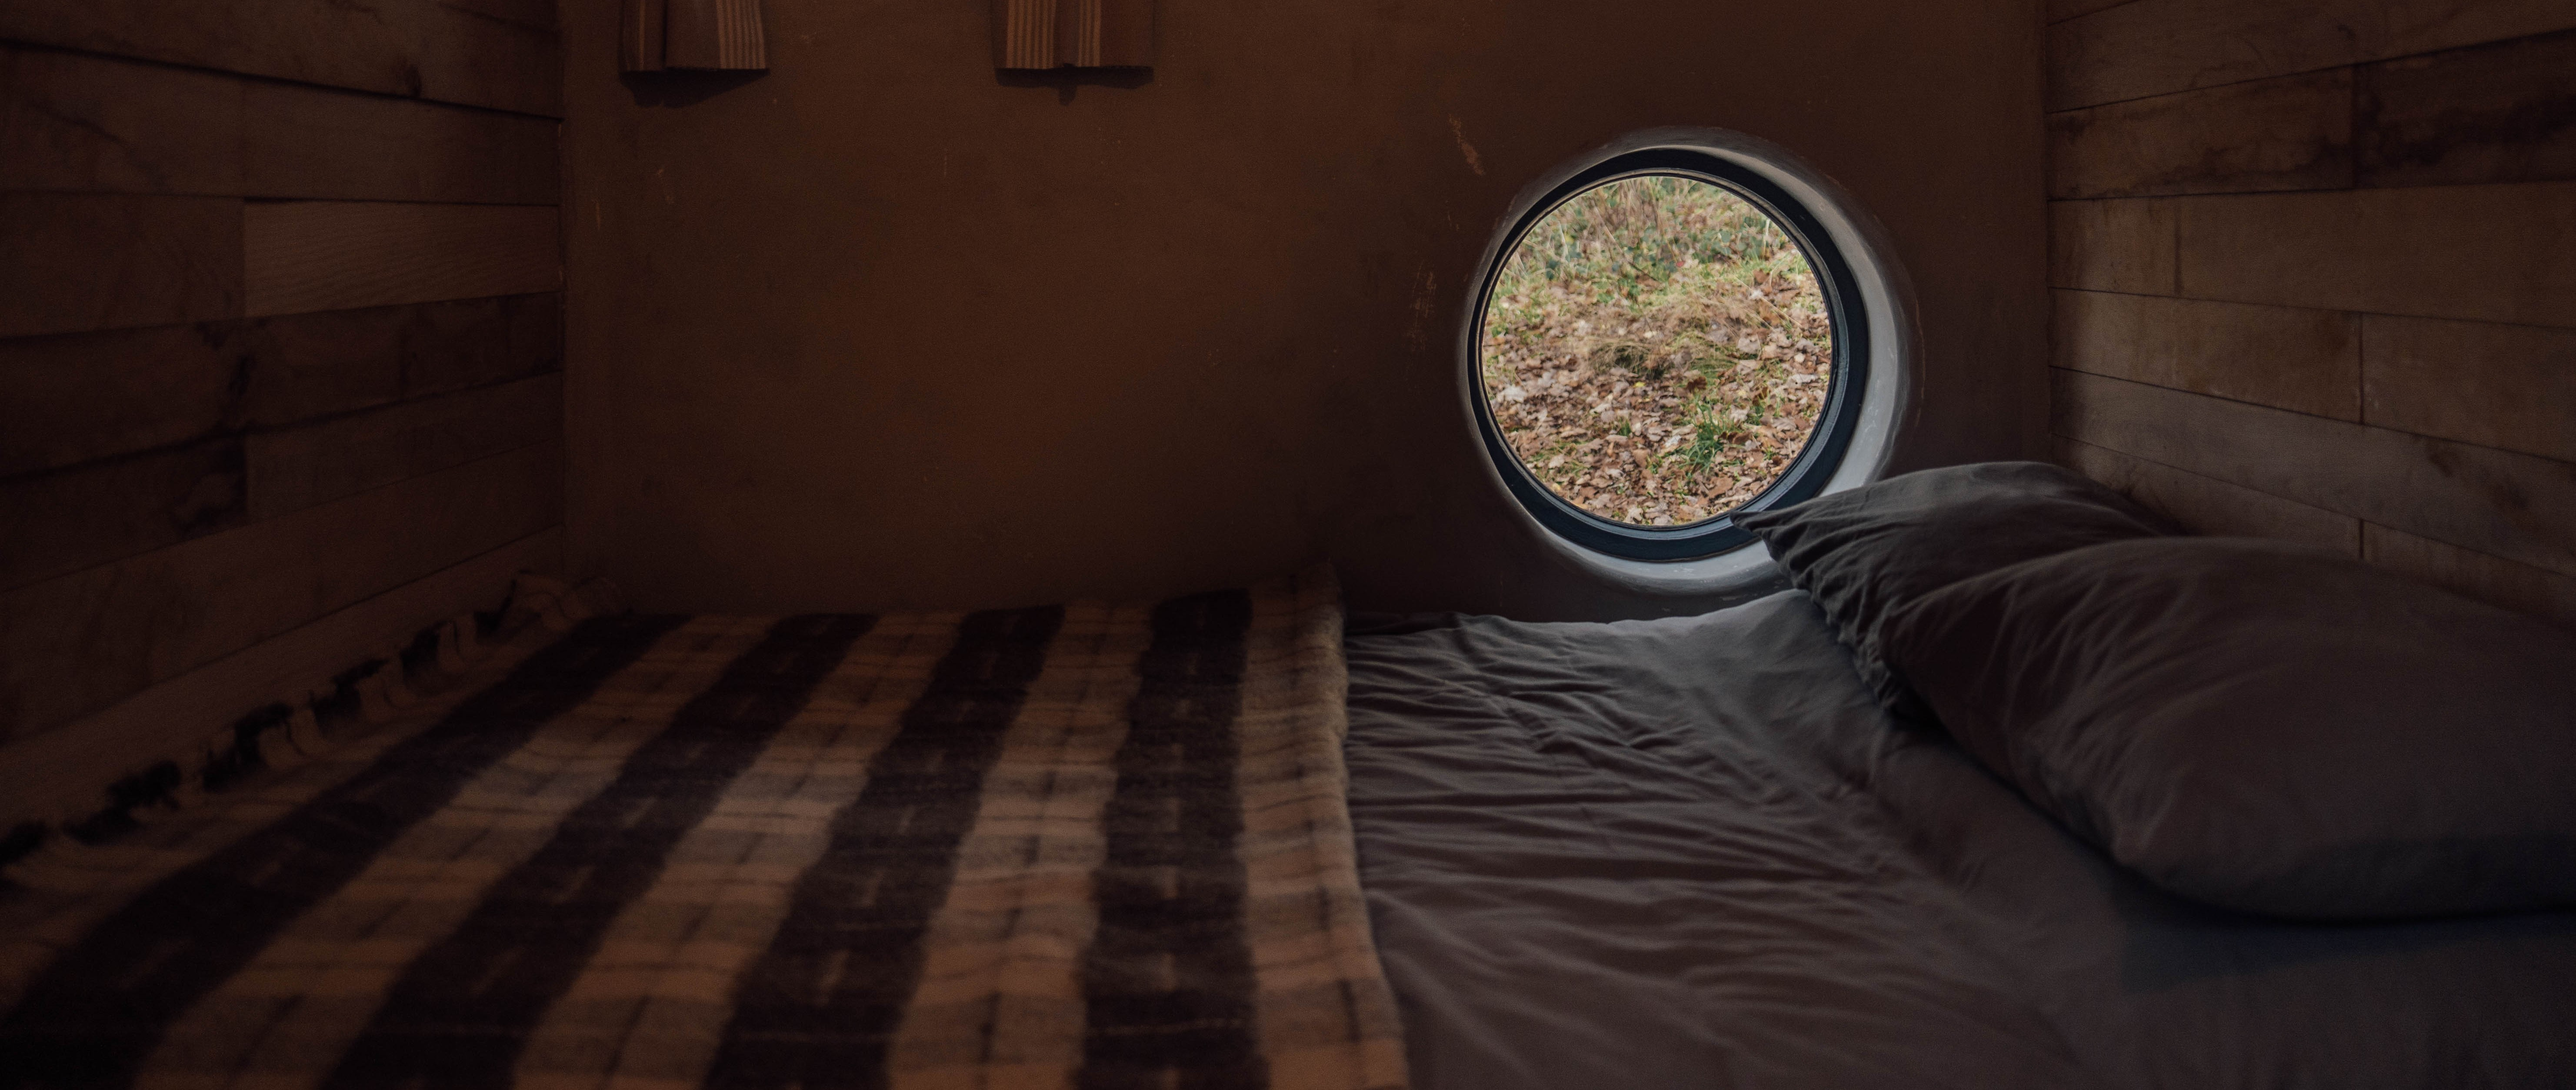
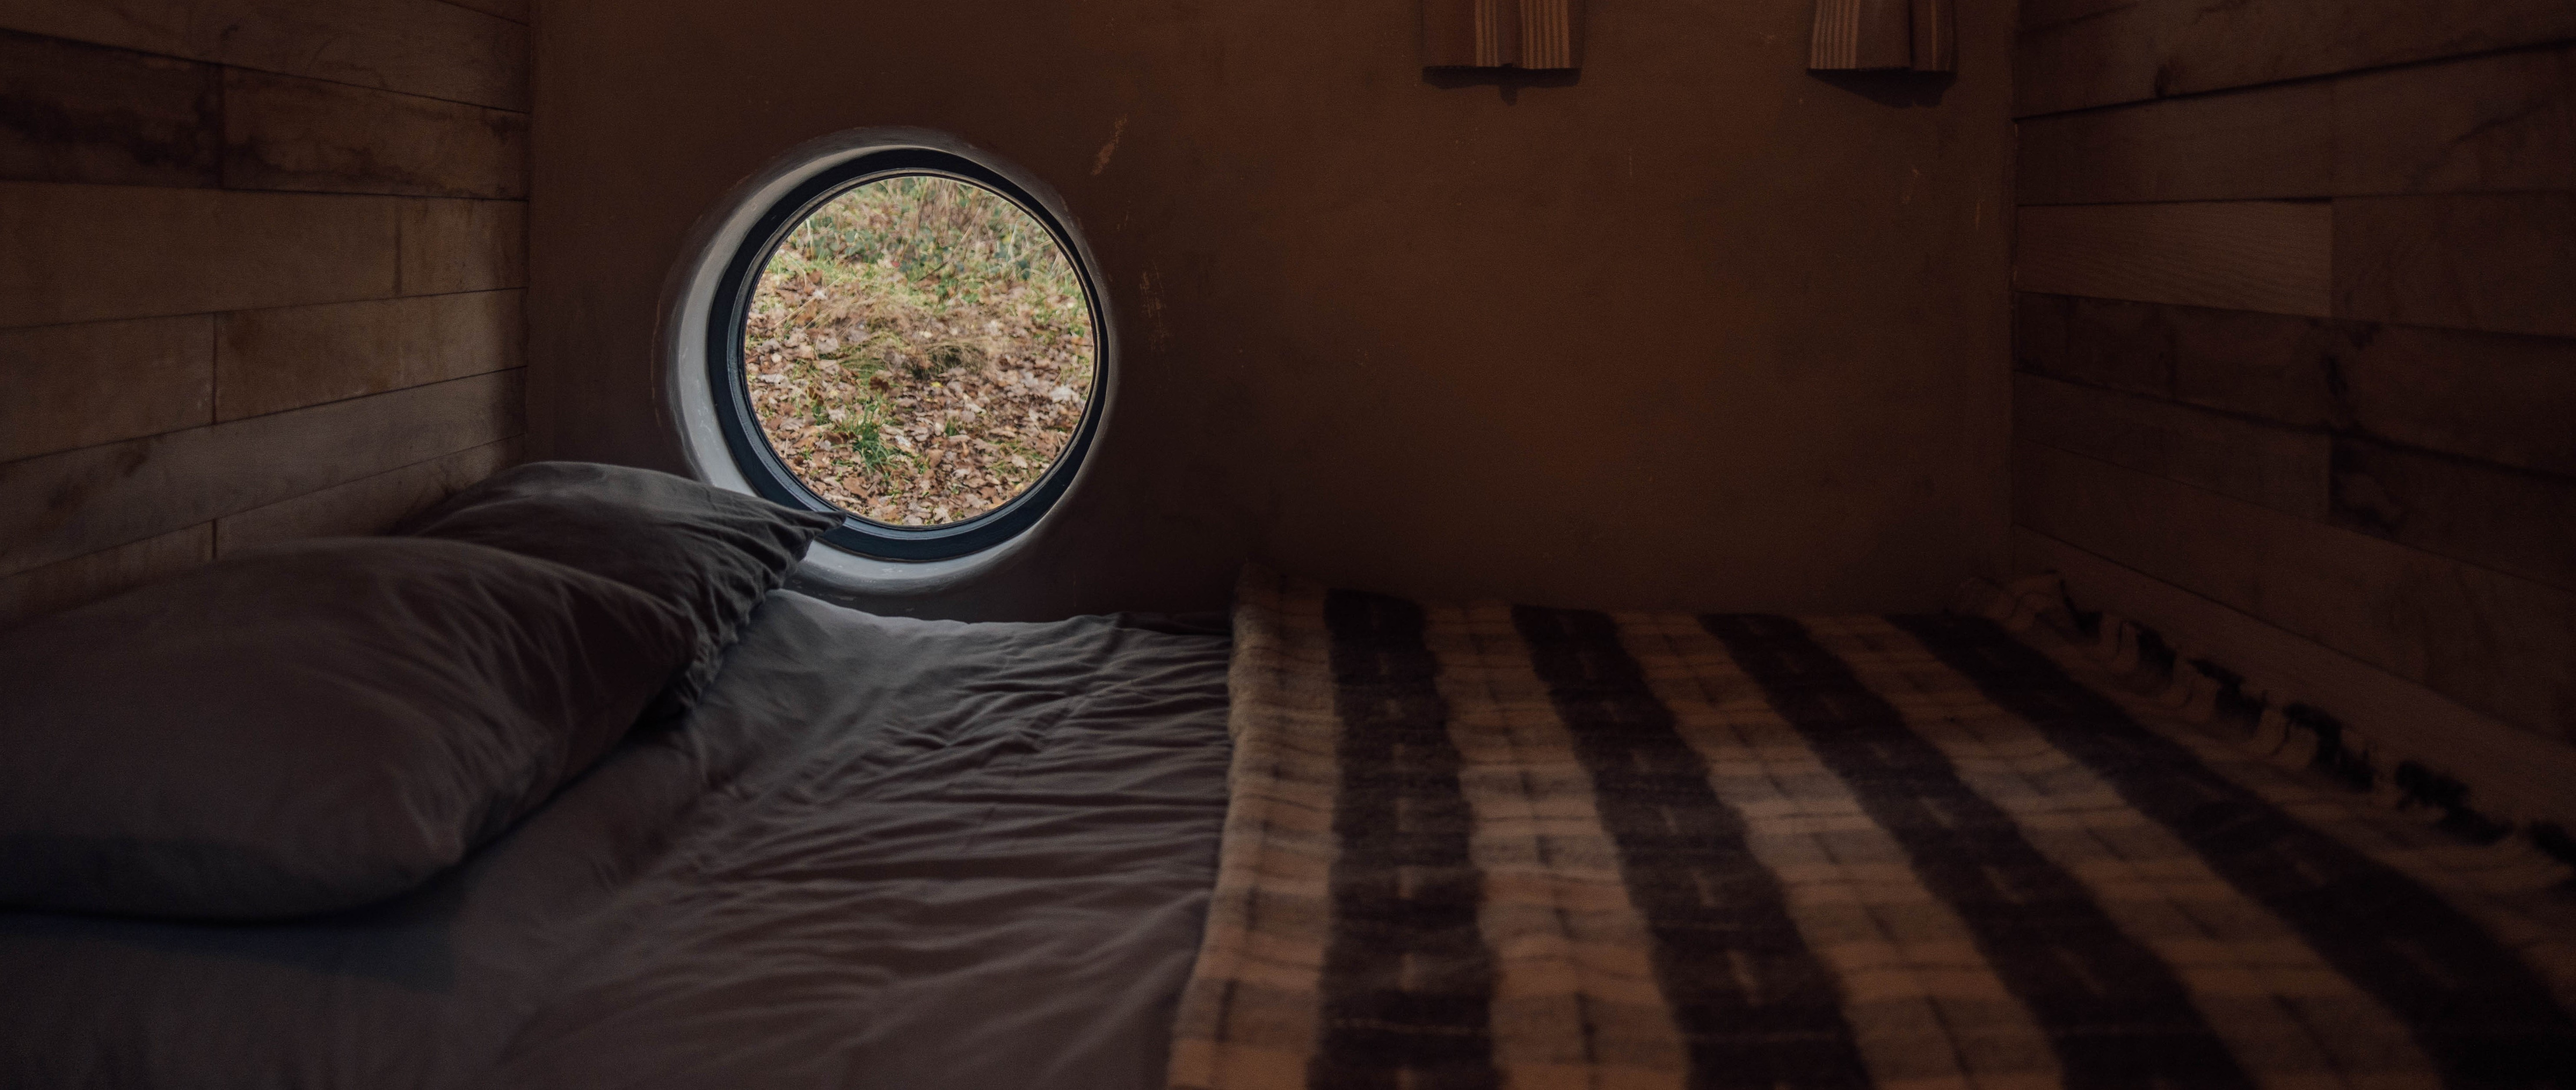
flipped bedroom image

diff --git a/index.html b/index.html
@@ -85,7 +85,7 @@
     </section>
 
     <!-- Social Links -->
-    <section class="bg-image bg-bed-2 padded left light-text tall-50 grid">
+    <section class="bg-image bg-bed-2 padded right light-text tall-50 grid">
         <div class="col-12-middle">
             <h2>Connect with us</h2>
             <nav>
